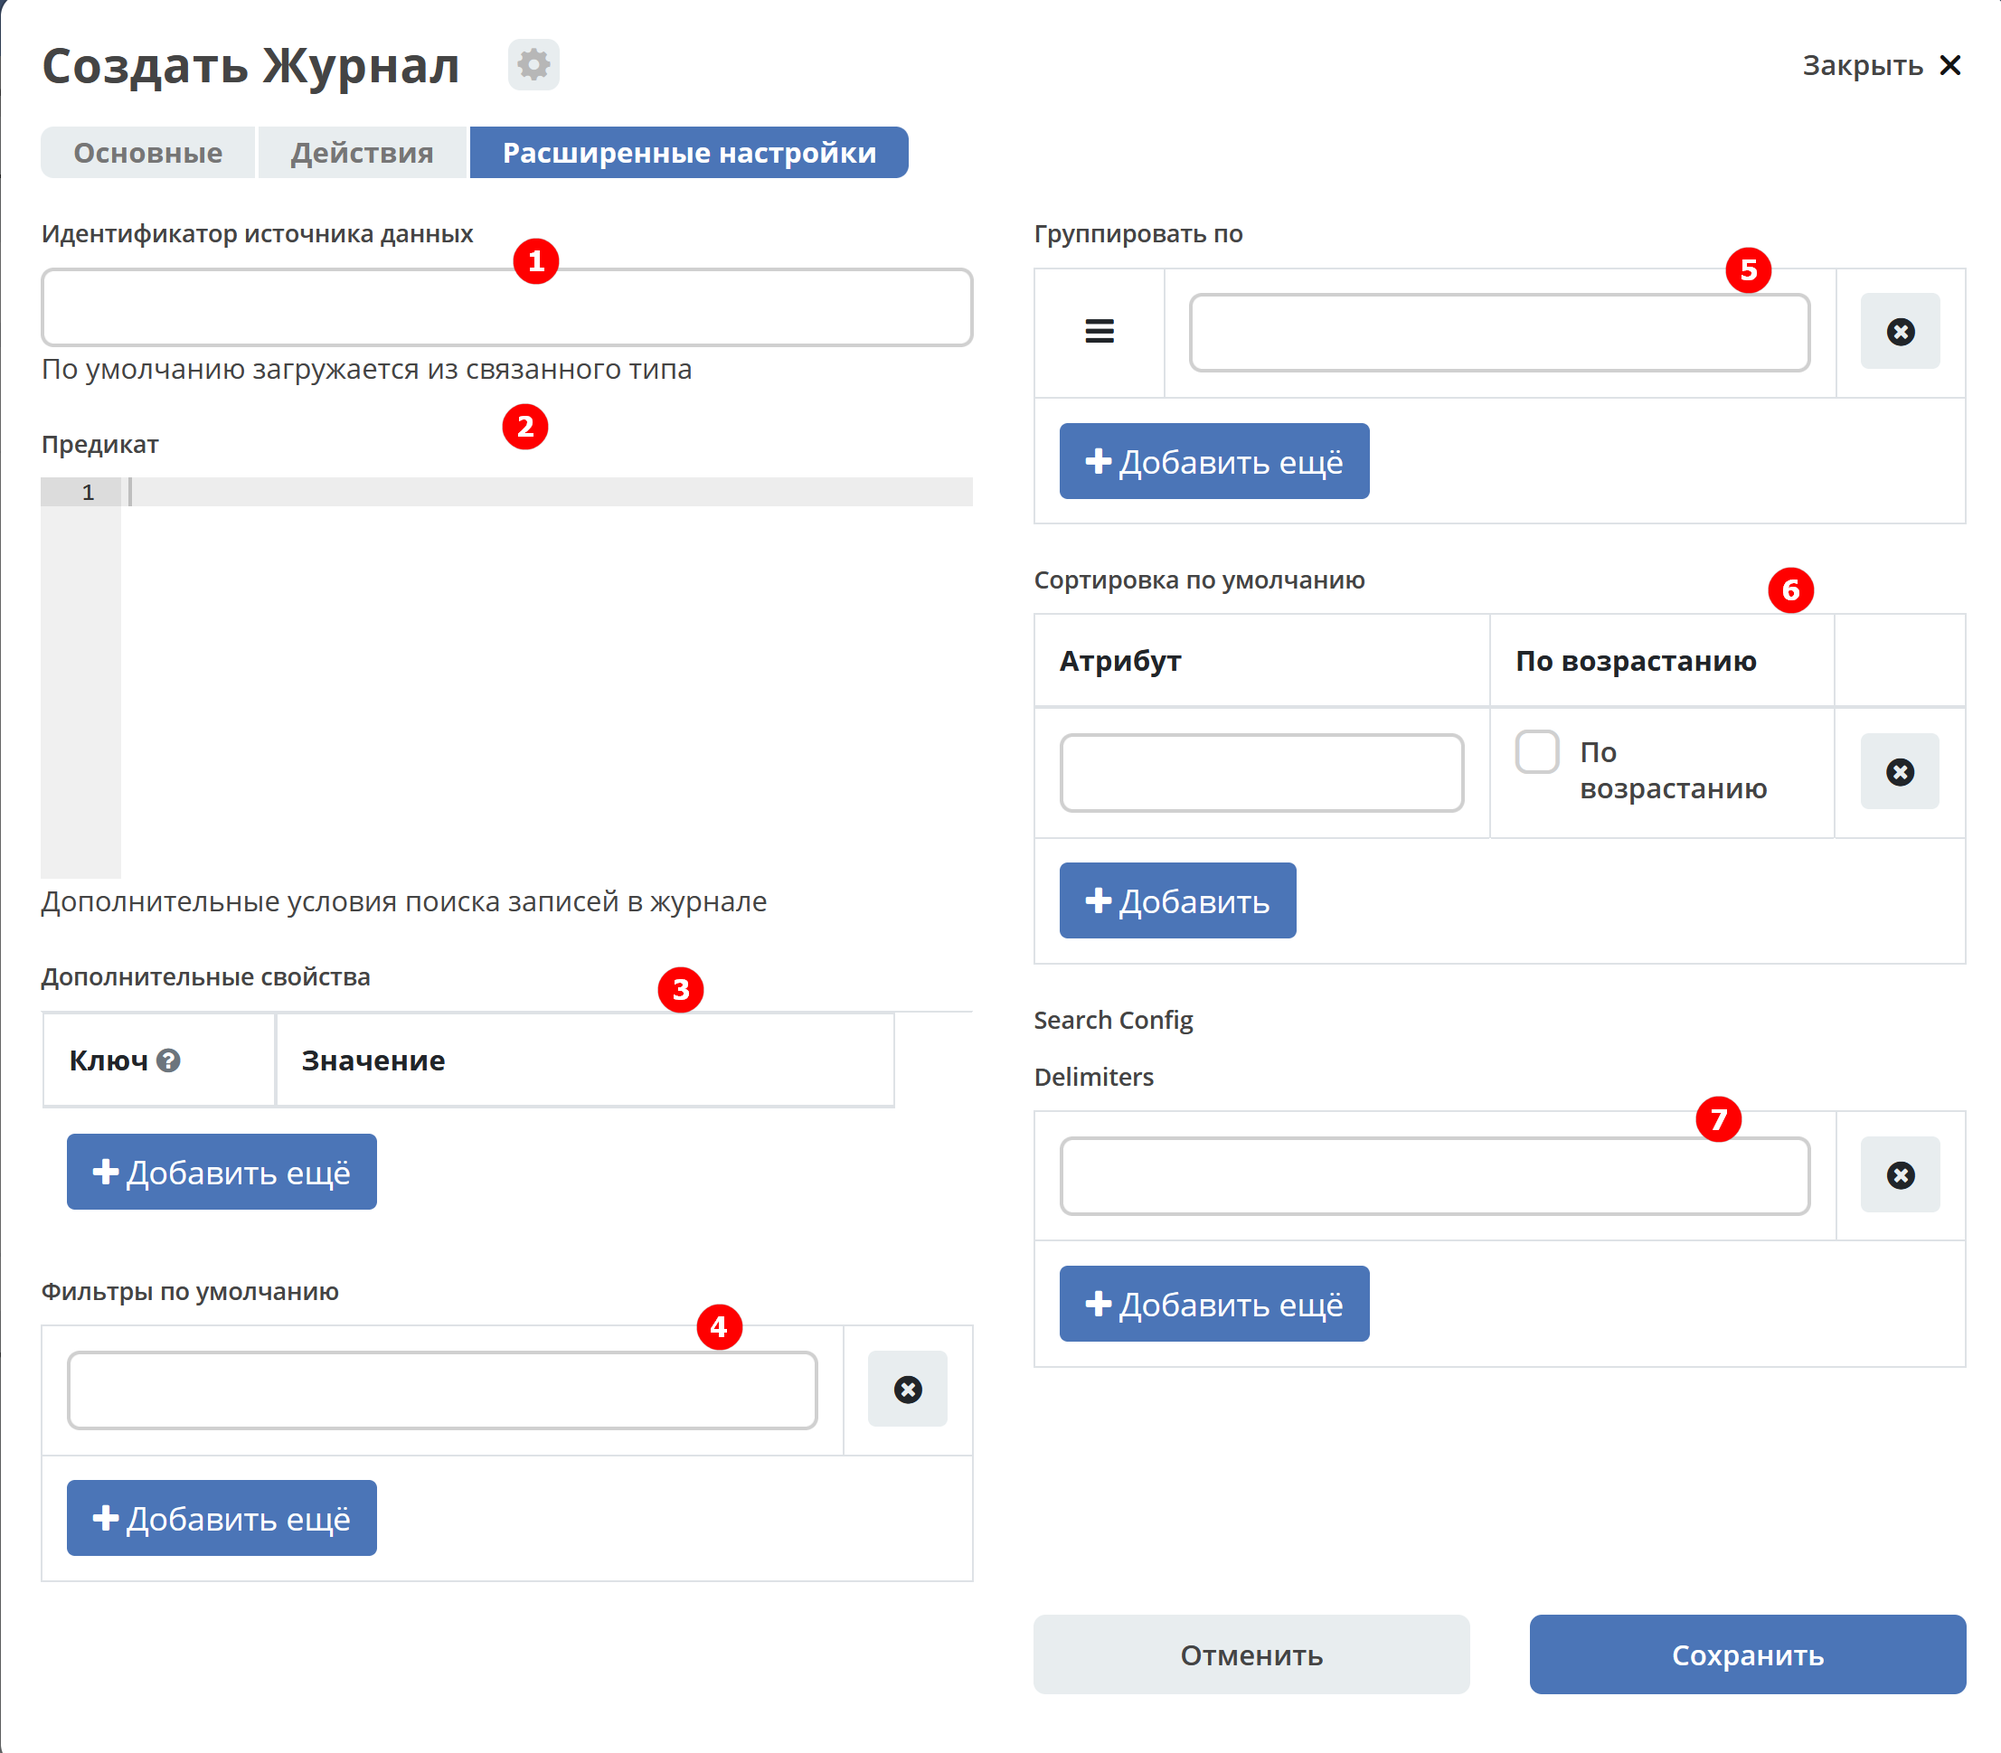
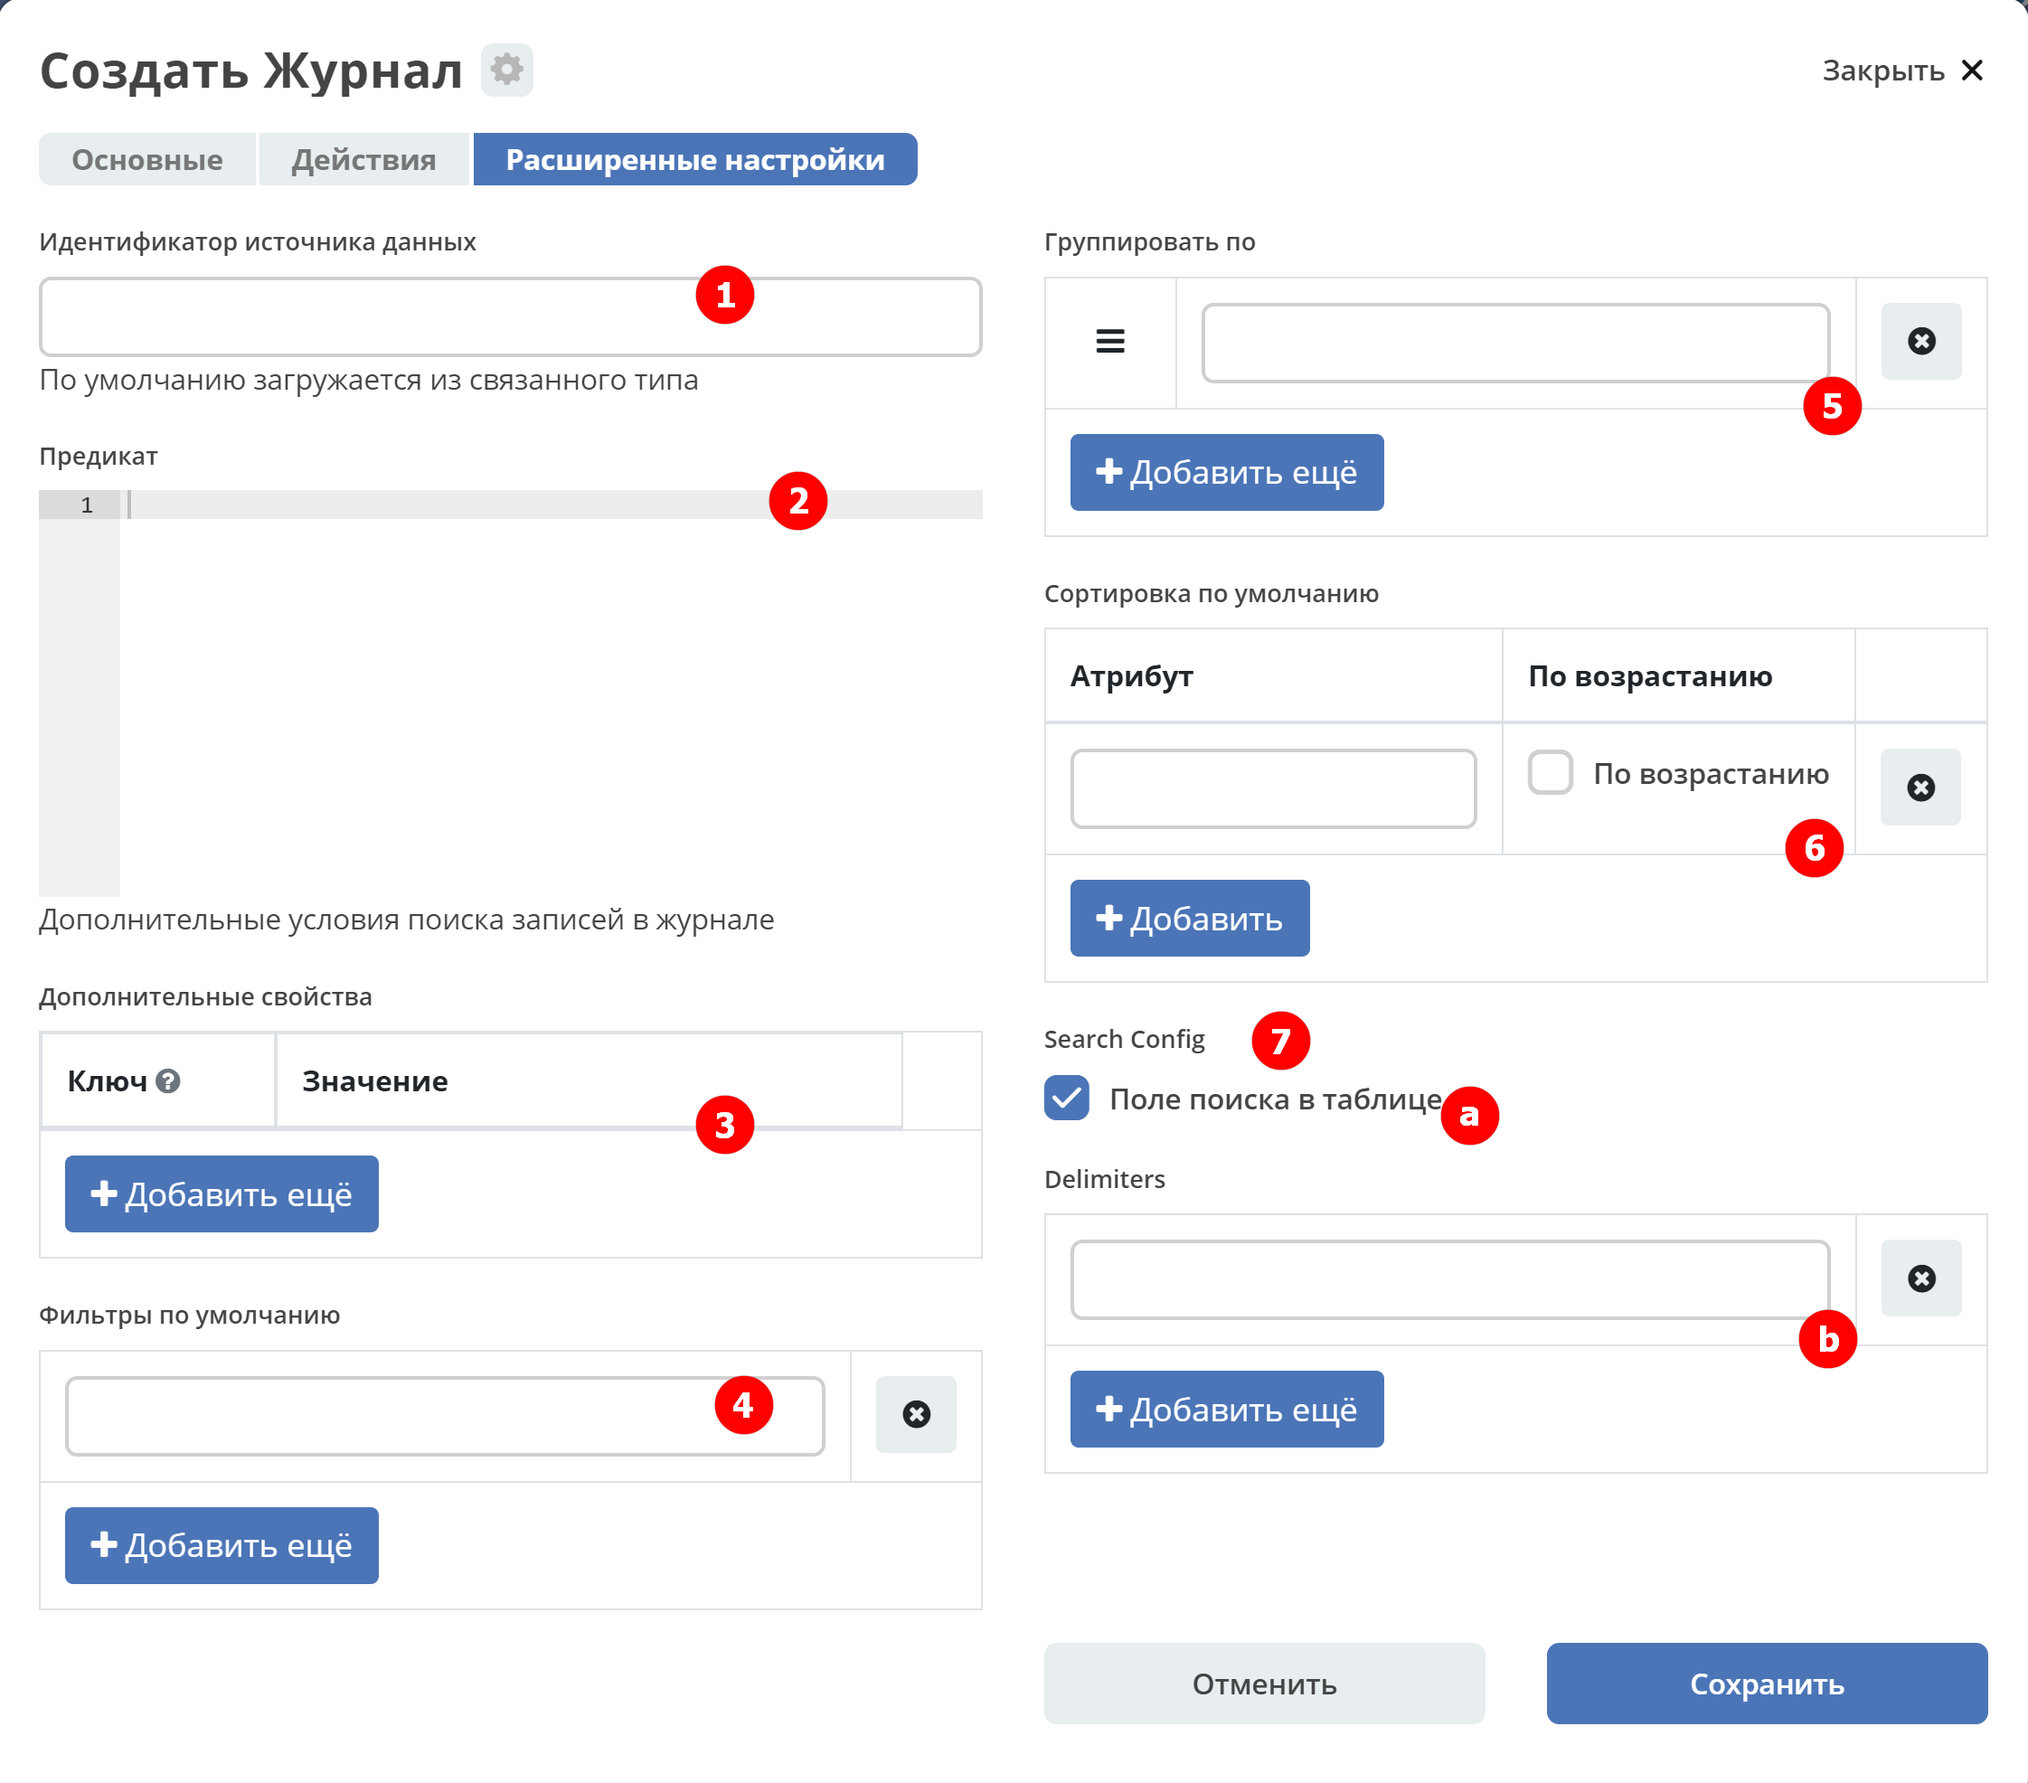
ECOSUI-2367

diff --git a/docs/settings_kb/interface/journals/new_journal.rst b/docs/settings_kb/interface/journals/new_journal.rst
@@ -140,13 +140,13 @@
         - Указать форматтер :ref:`см. Форматтеры<formatters>`
       * - 11
         - **Конфигурация форматтера** 
-        - ключ и значение при необходимости
+        - Ключ и значение при необходимости
       * - 12
         - **Редактор для колонки** 
         - Указать редактор :ref:`см. Редакторы<editors>`
       * - 13
         - **Конфигурация редактора** 
-        - ключ и значение при необходимости
+        - Ключ и значение при необходимости
       * - 14
         - **Delimiters** 
         - Возможность установки и настройки разделителя для массива значений
@@ -199,7 +199,7 @@
         - Указать ссылку на модуль, содержащий JS-код
       * - 9
         - **Конфигурация**
-        - ключ и значение при необходимости
+        - Ключ и значение при необходимости
       * - 10
         - **Название формы подтверждения**
         - Наименование формы
@@ -211,7 +211,7 @@
         - Форма выбирается из списка предлагаемых
       * - 13
         - **Параметры формы подтверждения**
-        - ключ и значение при необходимости
+        - Ключ и значение при необходимости
       * - 14
         - **Применимость**
         - Применить для записи, записей, поискового запроса. См. подробно ниже.
@@ -299,5 +299,10 @@
       * - 7
         - **Search Config** 
         - | Конфигурация поиска. 
-          | **Delimiters** - разделители при поиске, чтобы в одной строке можно было указать УСЛОВИЕ_1 ИЛИ УСЛОВИЕ_2. 
+      * - a
+        - **Поле поиска в таблице** 
+        - | Снятый чекбокс - панель поиска по записям журнала скрыта.
+      * - b
+        - **Delimiters** 
+        - | Разделители при поиске, чтобы в одной строке можно было указать УСЛОВИЕ_1 ИЛИ УСЛОВИЕ_2. 
           | Т.е. например, если разделитель у нас "|", то при поиске "Содержит abc|def" мы по факту получим поисковый запрос "Содержит abc ИЛИ Содержит def"

diff --git a/docs/general/transformation/transformation_service.rst b/docs/general/transformation/transformation_service.rst
@@ -48,11 +48,11 @@
 
 Для успешного добавления в систему вашего шаблона необходимо учитывать некоторые вещи:
 
-* Вместе с самим шаблонов должен храниться файл **meta.yml**, который будет хранить метоинформацию о шаблоне.
+* Вместе с самим шаблонов должен храниться файл ``meta.yml``, который будет хранить метоинформацию о шаблоне.
 
   **Особенность наименования файлов:**
   
-  Если файл шаблона один, то мета-файл называется по шаблону **${Полное_имя_файла_с_расширением}.meta.yml**
+  Если файл шаблона один, то мета-файл называется по шаблону ``${Полное_имя_файла_с_расширением}.meta.yml``
 
   Пример:
 
@@ -60,7 +60,7 @@
        :width: 200
        :align: center
 
-  Если файлов шаблона несколько в результате разделения их по локализации, то мета-файл именуется по следующему шаблону **&{Имя_файла_до_указания_локали}.meta.yml**
+  Если файлов шаблона несколько в результате разделения их по локализации, то мета-файл именуется по следующему шаблону ``&{Имя_файла_до_указания_локали}.meta.yml``
 
   Пример:
 

diff --git a/docs/case_sample/offer.rst b/docs/case_sample/offer.rst
@@ -416,7 +416,7 @@
 
      1,id,offer
      2,Имя,Согласование оффера
-     3,Шаблон отображения имени,Оффер №${registrationNumber|fmt("000000")}
+     3,Шаблон отображения имени,Оффер №${_docNum|fmt("000000")} номер будет указан в виде 0000001
      5,Родитель,Кейс
      8,Шаблон нумерации, Создать hr-offer-number-template см. ниже
      11,Действия, Редактировать свойства; Удалить
@@ -500,18 +500,6 @@
 Ниже приведено изображение конечной настройки типа (для визуальной сверки):
 
   .. image:: _static/offer/type_16.png
-       :width: 600
-       :align: center
-
-Для настройки шаблона нумерации перейти:
-
-  .. image:: _static/offer/counter/count_4.png
-       :width: 600
-       :align: center
-
-Выбрать **тип** и **Storing type** как показано в примере, в поле **Template** заполнить **${_docNum|fmt("000000")}**, нажать **«Подтвердить»**.
-
-  .. image:: _static/offer/counter/count_5.png
        :width: 600
        :align: center
 

diff --git a/docs/general/Preview/Content_transformation.rst b/docs/general/Preview/Content_transformation.rst
@@ -1,7 +1,7 @@
 .. _content_transformation:
 
-Механизм конвертации: Трансформация содержимого документов
-===========================================================
+Трансформация содержимого документов
+=====================================
 
 .. note::
 
@@ -34,7 +34,7 @@ OnlyOffice
     ecos:
     integrations:
         onlyoffice:
-        host: only-office-app # хост на котором доступен сервер OnlyOffice
+        host: only-office-app # хост, на котором доступен сервер OnlyOffice
         port: 80 # http порт для работы с OnlyOffice
 
 Типы трансформаций

diff --git a/docs/settings_kb/interface/forms/form_localisation.rst b/docs/settings_kb/interface/forms/form_localisation.rst
@@ -7,7 +7,7 @@
 
 **1. Глобальная локализация**
    
-Вся локализация, которая имеет префикс **ecos.forms**. попадает в формы. Например **ecos.forms.someTitle="123"** попадет в формы в виде: **{"someTitle":"123"}**.
+Вся локализация, которая имеет префикс **ecos.forms**. попадает в формы. Например ``ecos.forms.someTitle="123"``попадет в формы в виде: ``{"someTitle":"123"}``.
 
 В качестве глобальной локализации используется локализация из ``site-messages/*.properties`` файлов ``*-share`` модулей.
 

diff --git a/docs/settings_kb/interface/number_template.rst b/docs/settings_kb/interface/number_template.rst
@@ -5,7 +5,7 @@
 
 Template
 ---------------
-Шаблонов нумерации можно полностью настроить через интерфейс. Шаблоны и счетчики для них хранятся в **ecos-model**.
+Шаблоны нумерации можно полностью настроить через интерфейс ECOS. Шаблоны и счетчики для них хранятся в **ecos-model**.
 
 .. image:: _static/number_template/Number_template_1.png
        :width: 400
